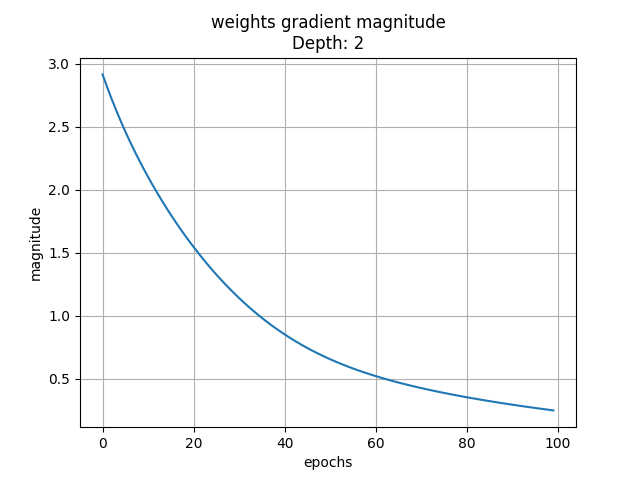
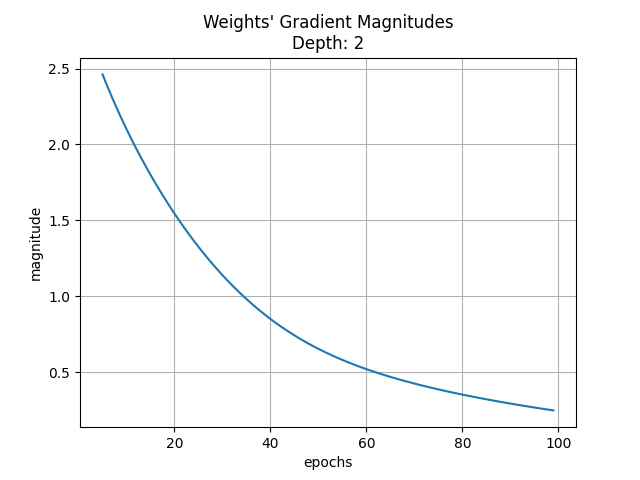
update graphs

diff --git a/EX3/Part 2(4)/statistics/visualize_min_and_max_hessian_eigenvals.py b/EX3/Part 2(4)/statistics/visualize_min_and_max_hessian_eigenvals.py
@@ -7,10 +7,10 @@ if __name__ == "__main__":
         min_eigenvals = np.load("statistics/results/depth_%d/min_eigenval.npy" %N)
         max_eigenvals = np.load("statistics/results/depth_%d/max_eigenval.npy" %N)
 
-        x_axis = list(range(len(min_eigenvals)))
+        x_axis = list(range(5, len(min_eigenvals)))
         fig, ax = plt.subplots()
-        ax.plot(x_axis, min_eigenvals)
-        ax.plot(x_axis, max_eigenvals)
+        ax.plot(x_axis, min_eigenvals[5:])
+        ax.plot(x_axis, max_eigenvals[5:])
         ax.set(xlabel='epochs', ylabel='eigenvalue', title='Hessian\'s Eigenvalue\nDepth: %d'%N)
         plt.legend(["min_eigenval", "max_eigenval"])
         ax.grid()

diff --git a/EX3/Part 2(4)/statistics/visualize_loss.py b/EX3/Part 2(4)/statistics/visualize_loss.py
@@ -8,10 +8,10 @@ if __name__ == "__main__":
 
         train_loss_per_epoch, test_loss_per_epoch = train_stats
 
-        x_axis = list(range(len(train_loss_per_epoch)))
+        x_axis = list(range(5, len(train_loss_per_epoch)))
         fig, ax = plt.subplots()
-        ax.plot(x_axis, train_loss_per_epoch)
-        ax.plot(x_axis, test_loss_per_epoch)
+        ax.plot(x_axis, train_loss_per_epoch[5:])
+        ax.plot(x_axis, test_loss_per_epoch[5:])
         ax.set(xlabel='epochs', ylabel='loss', title='training procedure')
         ax.grid()
         plt.legend(["train_loss", "test_loss"])

diff --git a/EX3/Part 2(4)/statistics/visualize_weights_gradient_magnitude.py b/EX3/Part 2(4)/statistics/visualize_weights_gradient_magnitude.py
@@ -6,9 +6,9 @@ if __name__ == "__main__":
     for N in neural_net_depths:
         weights_gradient_magnitude = np.load("statistics/results/depth_%d/train_weights_gradient_magnitude.npy" %N)
 
-        x_axis = list(range(len(weights_gradient_magnitude)))
+        x_axis = list(range(5, len(weights_gradient_magnitude)))
         fig, ax = plt.subplots()
-        ax.plot(x_axis, weights_gradient_magnitude)
+        ax.plot(x_axis, weights_gradient_magnitude[5:])
         ax.set(xlabel='epochs', ylabel='magnitude', title='Weights\' Gradient Magnitudes\nDepth: %d'%N)
         ax.grid()
 
